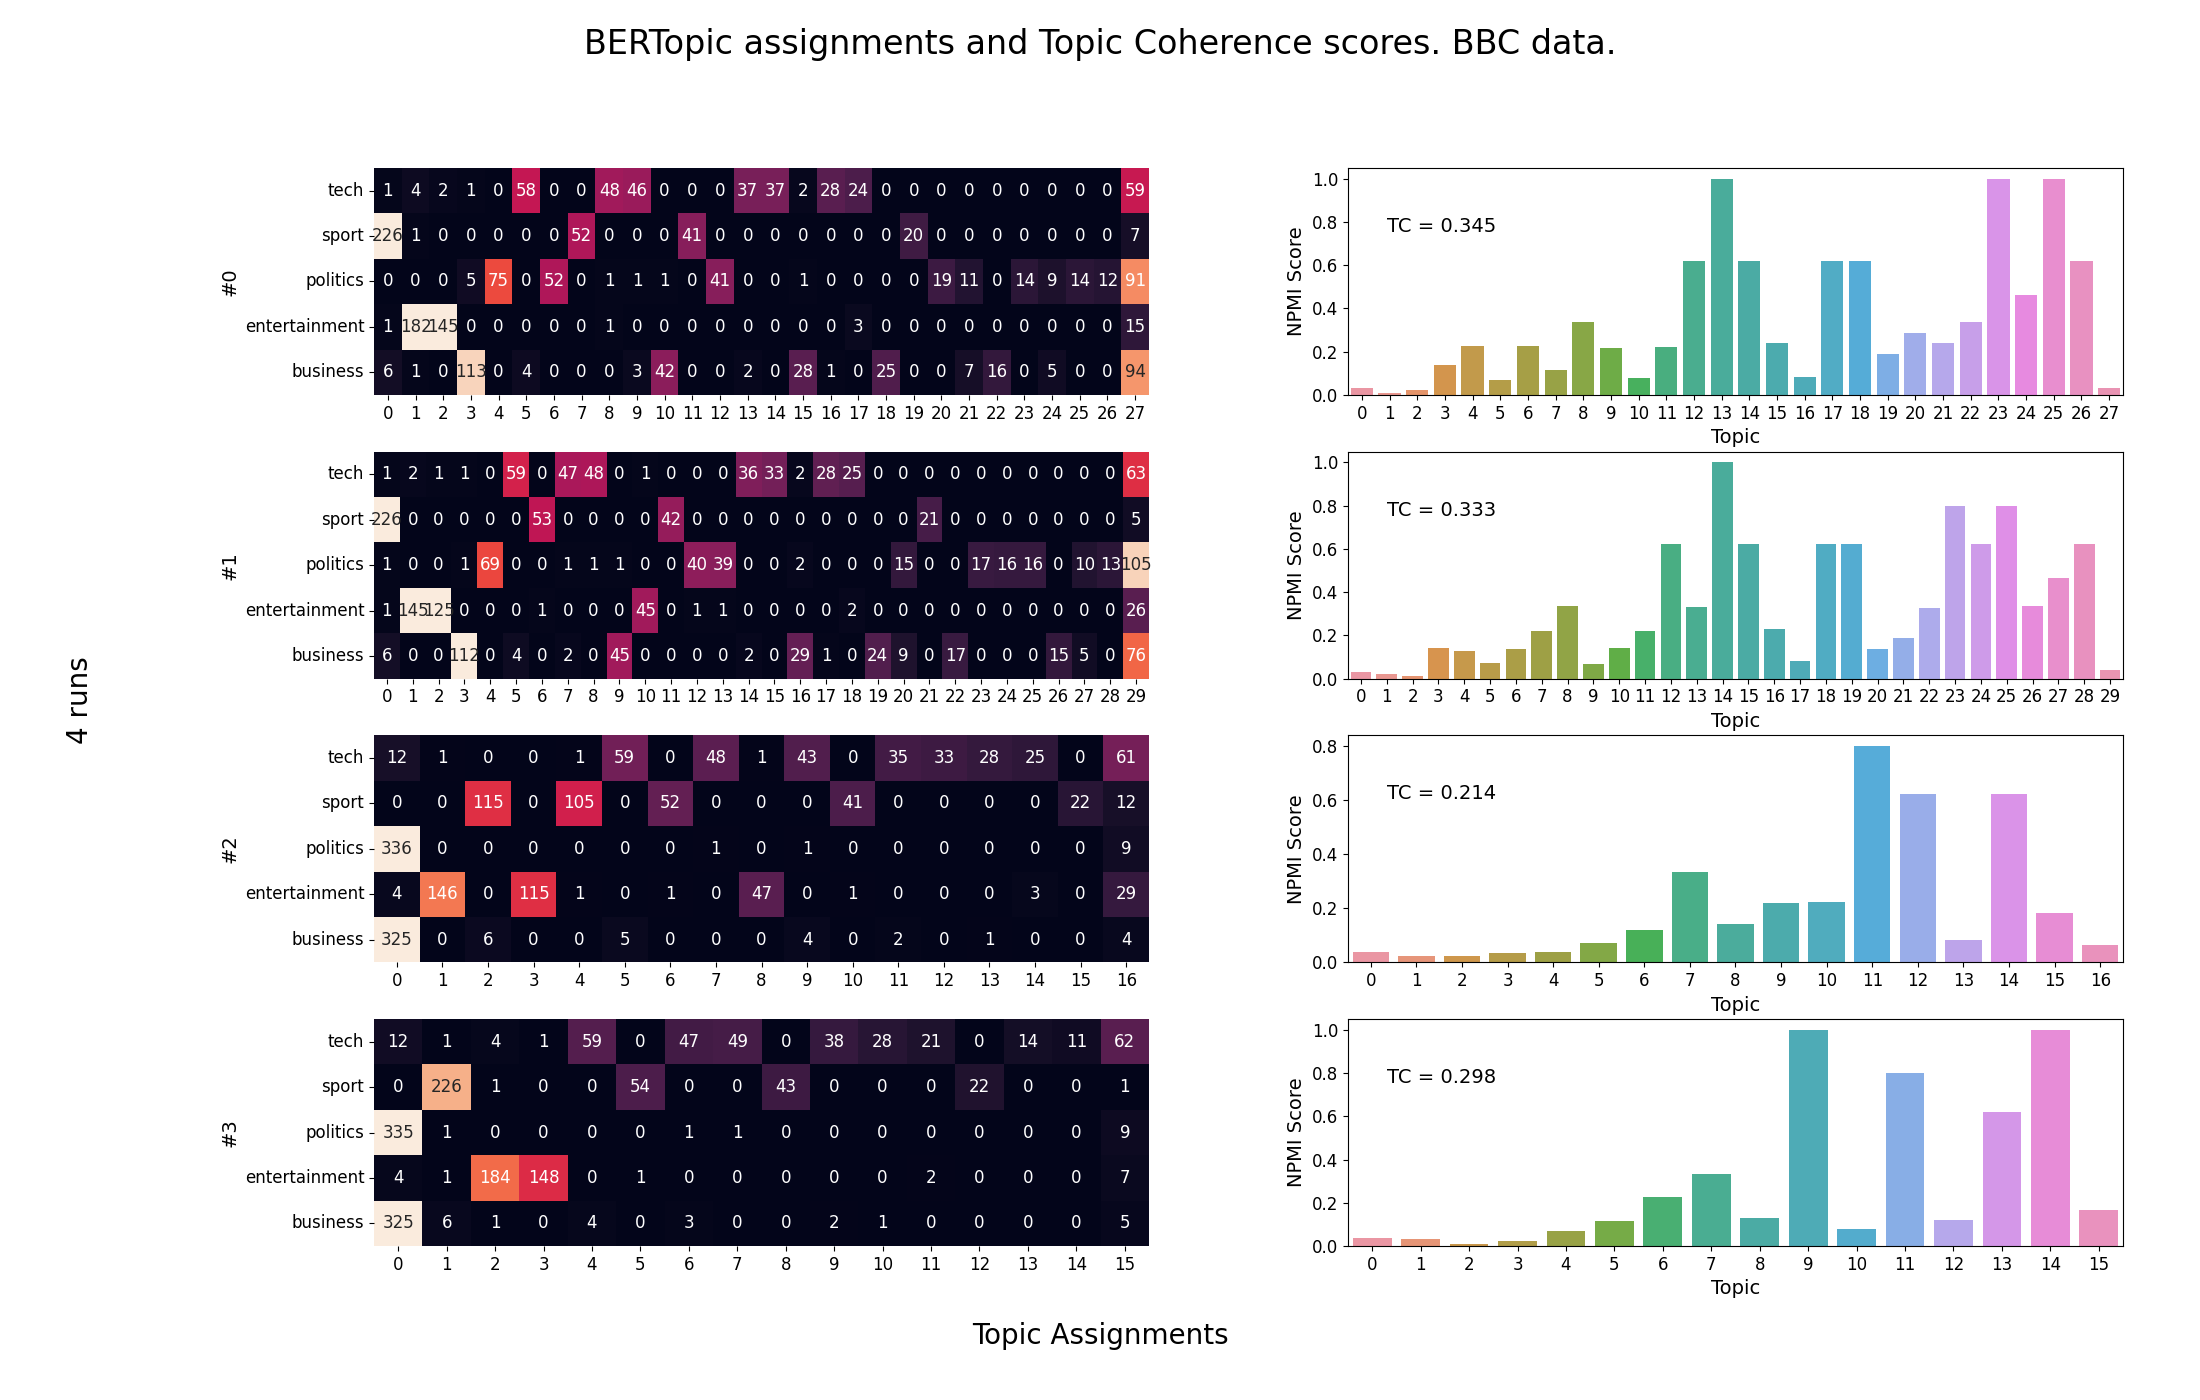
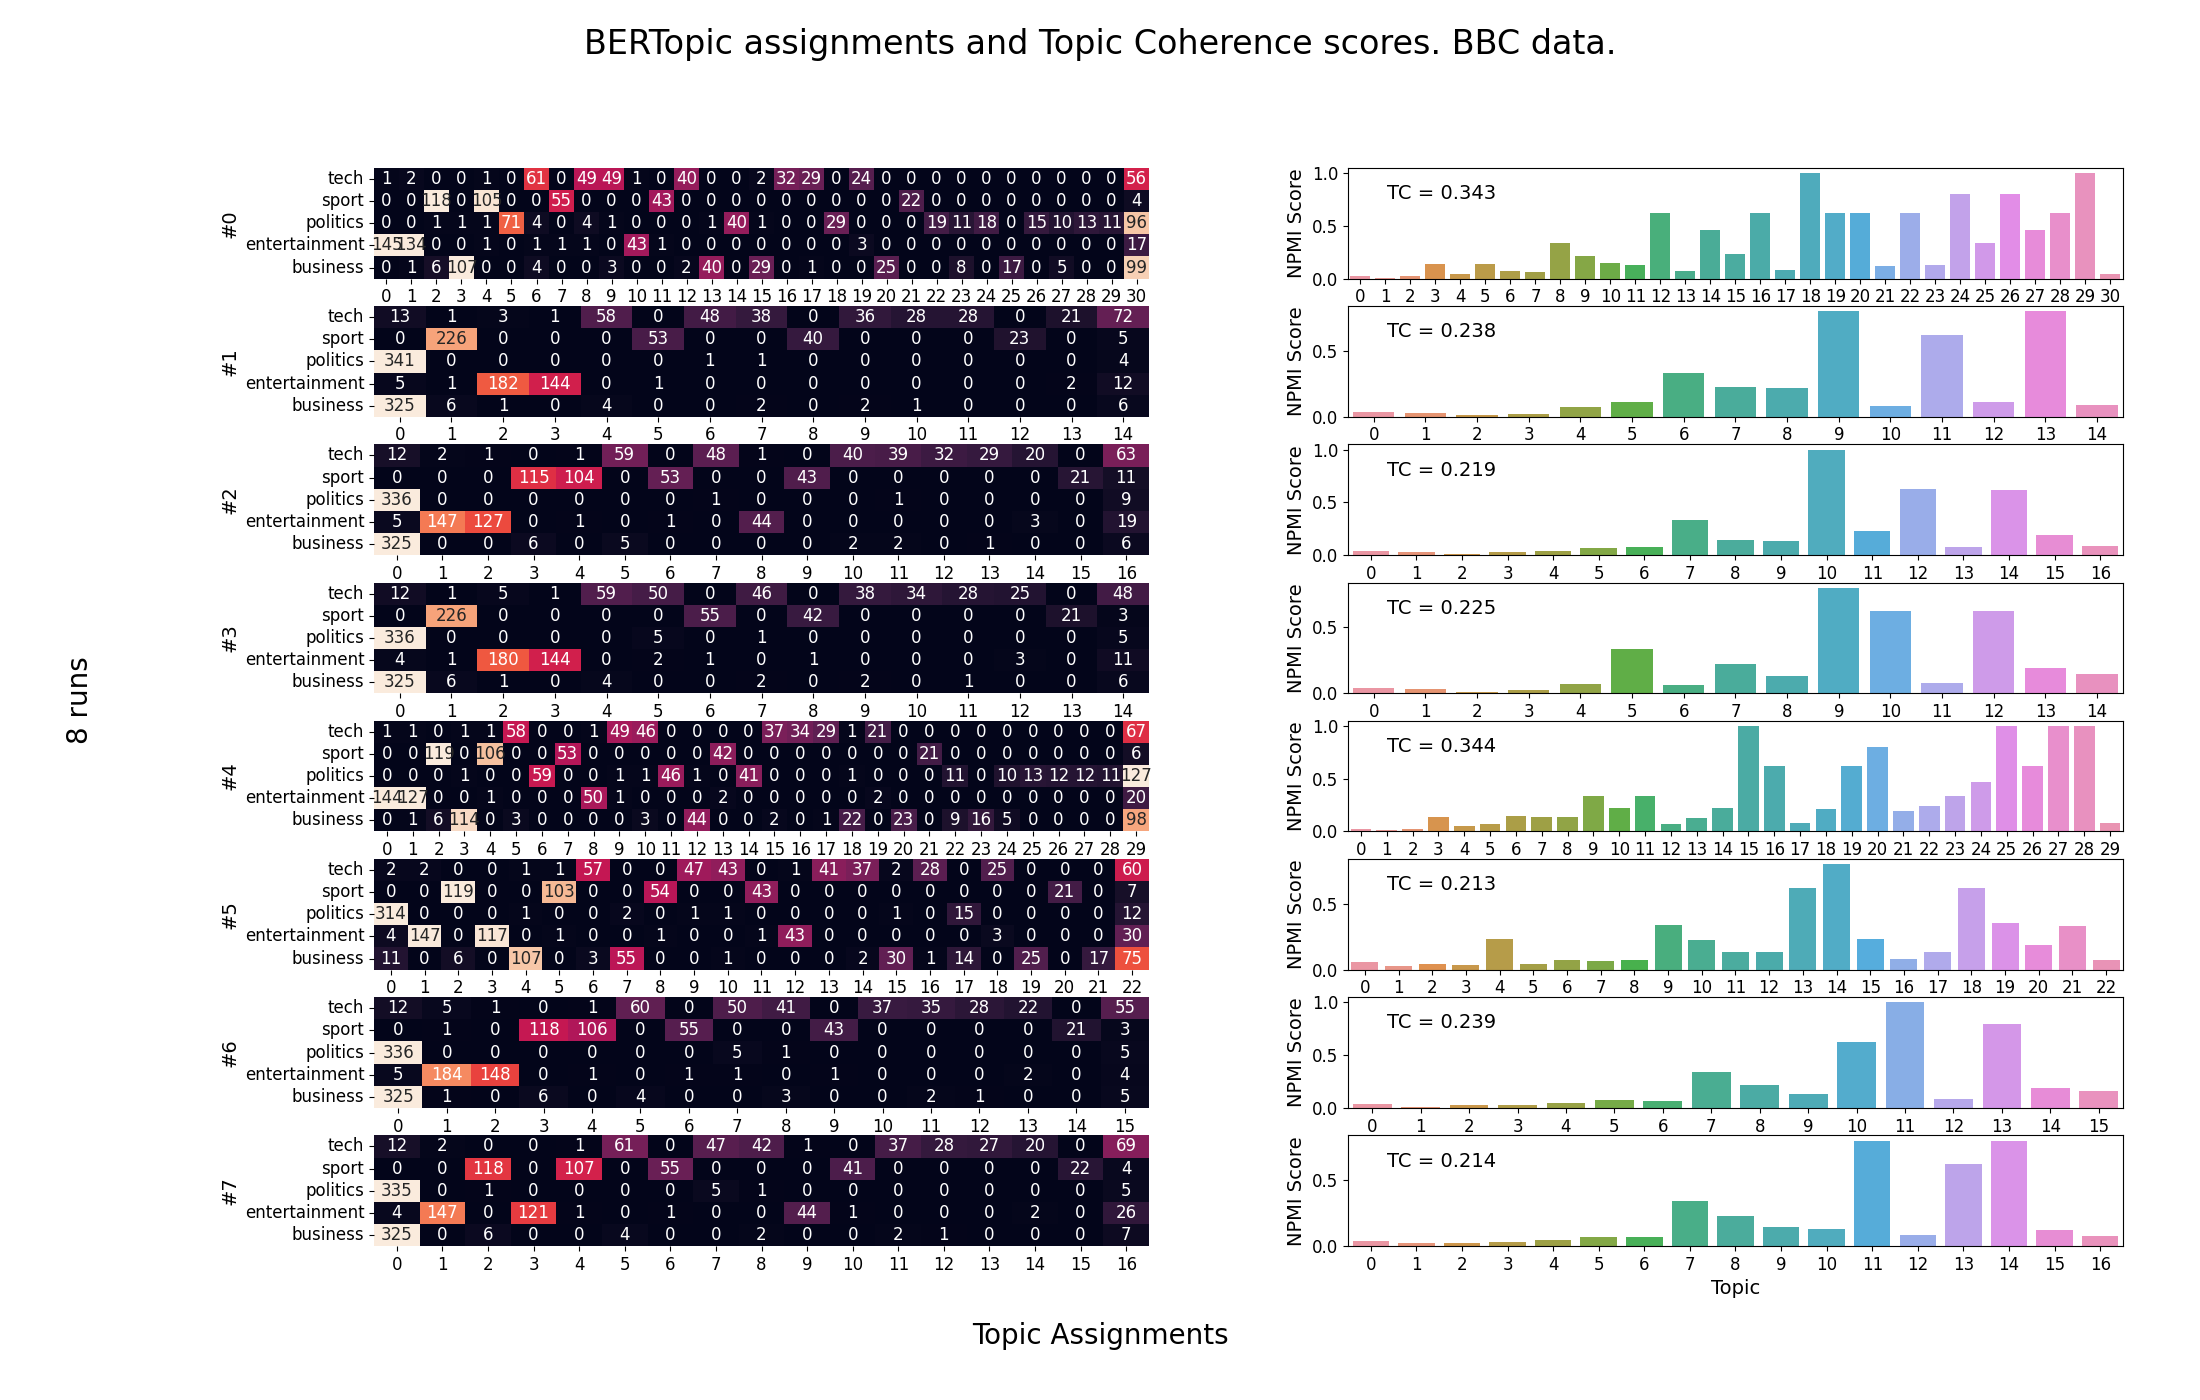
readme update

Changed region(s): [[0.0927, 0.1229, 0.5255, 0.9214], [0.5873, 0.1229, 0.9891, 0.9214]]

diff --git a/tools.py b/tools.py
@@ -209,7 +209,6 @@ def top_N(X, N):
     top_word_ind = np.flip(np.argsort(word_counts))[:N]
 
     return top_word_ind
-    
 
 def get_word_probs(X):
 
@@ -252,7 +251,7 @@ def cooccurence_prob_ji(X, j, i):
 
     return cooc
     
-def calc_topic_coherence(docs, N):
+def calc_topic_NPMI(docs, N):
 
     '''
     Calculates topic coherence metric NPMI
@@ -261,9 +260,7 @@ def calc_topic_coherence(docs, N):
     - Gerlof Bouma
     
     https://svn.spraakdata.gu.se/repos/gerlof/pub/www/Docs/npmi-pfd.pdf
-    
     https://stats.stackexchange.com/questions/140935/how-does-the-logpx-y-normalize-the-point-wise-mutual-information
-    
     '''
 
     vectorizer = CountVectorizer()
@@ -303,7 +300,7 @@ def calc_topic_coherence(docs, N):
 def model_coherence_score(topics, documents, N):
 
     '''
-    Calculate topic coherence score for each topic.
+    Calculate NPMI score for each topic.
     '''
 
     TC_NPMI_scores = []
@@ -315,28 +312,20 @@ def model_coherence_score(topics, documents, N):
     }
     
     topic_doc_df = pd.DataFrame(topic_doc_d)    
-    
-    
     topic_titles = range(np.max(topics)+1)
-
     
     for topic in topic_titles :
     
         if topic in topic_doc_df['Topic'].unique():
-      
             rslt_df = topic_doc_df[topic_doc_df['Topic'] == topic]
             docs = rslt_df['Document'].tolist()
             
             #print(f'Topic #{topic} \t# of documents : {len(docs)}')
-            
-            score = calc_topic_coherence(docs, N)
-
+            score = calc_topic_NPMI(docs, N)
         else:   
             score = 0
-        
         TC_NPMI_scores.append(score)
       
-
     return TC_NPMI_scores, np.mean(TC_NPMI_scores)
     
 
@@ -357,27 +346,32 @@ def model_topics_in_batch(
     result_df = pd.DataFrame()
 
     for i in range(iters):
+    
+        count_vectorizer = CountVectorizer()
+        count_vectorizer.set_params(**model_params['CV_grid'])
 
         if model_name == 'LDA' :
-            
+        
+            # build pipeline
             pipeline = Pipeline([
-                ('CountVectorizer', CountVectorizer()),
+                ('CountVectorizer', count_vectorizer),
                 ('TFIDF_transformer', TfidfTransformer()),
                 ('LDA', LatentDirichletAllocation())
             ])
-            
             pipeline.set_params(**model_params['LDA_grid'])
             
+            # train, get topics for each document
             topic_probs = pipeline.fit_transform(documents)
             topics = np.argmax(topic_probs, axis = 1)
         
-        
         elif model_name == 'BERTopic':
-            
-            if model_params['min_topic_size'] == False:
-                topic_model = BERTopic()
-            else:
-                topic_model = BERTopic(min_topic_size = model_params['min_topic_size'])
+            topic_model = BERTopic(
+                min_topic_size = model_params['min_topic_size'],
+                
+                # Used for BERTopic's built-in topic naming / top N word return
+                # Not used for NPMI / Topic Coherence calculation
+                vectorizer_model = count_vectorizer,
+            )
                 
             topics, probs = topic_model.fit_transform(documents, embeddings)
             

diff --git a/run_study.py b/run_study.py
@@ -17,32 +17,36 @@ documents, labels, categories =  read_in_data(read_directory+'BBC_data_CLEAN.csv
 embeddings = joblib.load(read_directory + 'BBC_embeddings.z')
 
 # Model Selection
-#model_name = 'BERTopic'
-model_name = 'LDA'
+model_name = 'BERTopic'
+#model_name = 'LDA'
 
-# BERTopic parameters
-min_topic_size = False
-
-# LDA parameters
-LDA_grid = {
-    'CountVectorizer__max_df': 0.85, 
-    'CountVectorizer__min_df': 0.1, 
-    'CountVectorizer__ngram_range': (1, 1), 
-    
-    'LDA__n_components': 15, 
-    'LDA__doc_topic_prior': 0.005, 
-    'LDA__topic_word_prior': 0.01,
-    'LDA__max_iter' : 500,
+# CountVectorizer parameters
+CV_grid = {
+    'max_df': 0.85, 
+    'min_df': 0.1, 
+    'ngram_range': (1, 1), 
 }
 
+# LDA parameters
+LDA_grid = {    
+    'LDA__n_components': 15, 
+    'LDA__doc_topic_prior': 0.5, 
+    'LDA__topic_word_prior': 0.5,
+    'LDA__max_iter' : 100,
+}
+
+# BERTopic parameters
+min_topic_size = 10
+
 model_params = {
+    'CV_grid' : CV_grid,
     'LDA_grid' : LDA_grid,
     'min_topic_size' : min_topic_size,
 
 }
 
 # General parameters
-iters = 4
+iters = 8
 N = 10
 ID = np.random.randint(low = 0, high = 1000)
 
